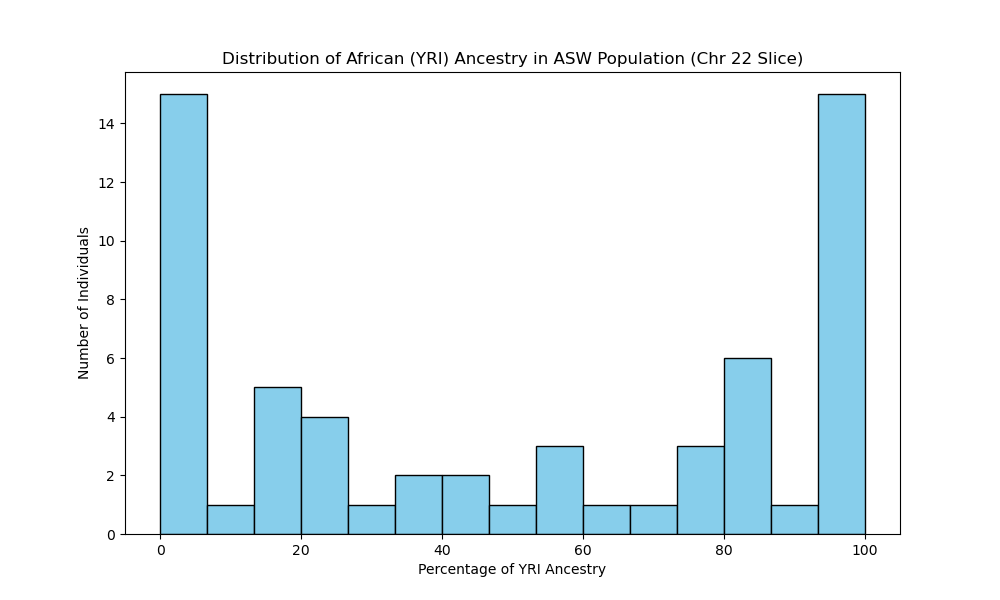
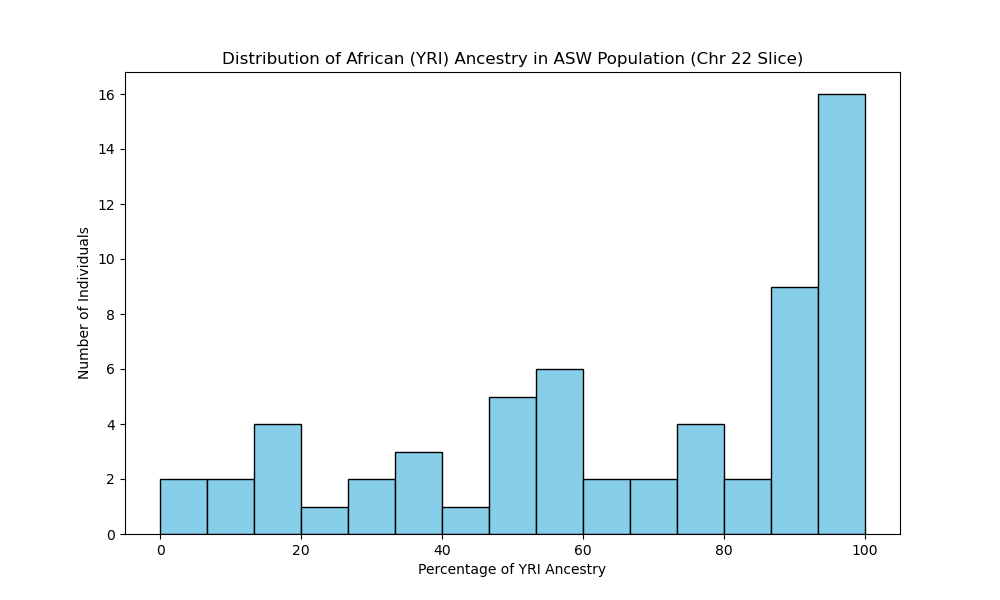
Match hmm with flare and rfmix

diff --git a/src/hmm/emission.py b/src/hmm/emission.py
@@ -17,49 +17,36 @@ class EmissionModel:
         self.yri_freqs = yri_freqs
         self.ceu_freqs = ceu_freqs
         self.epsilon = epsilon
+        # Haplotype-level ancestry states (K states, K=2 for this project).
+        self.states = ["CEU", "YRI"]
 
-    def get_log_emission(self, state, genotype, position):
-        # Get the frequency for the given state (YRI or CEU)
-        freqs = self.yri_freqs if state == "YRI" else self.ceu_freqs
-        
-        # If the SNP position isn't in our frequency dict, return a neutral log-prob
-        if position not in freqs:
-            return np.log(0.5)
-            
-        p = freqs[position]
-        
-        # Basic emission logic: 
-        # Probability of observing genotype (0,0), (0,1), or (1,1) given allele frequency p
-        # We add epsilon to prevent log(0) errors
-        if genotype == (0, 0):
-            prob = (1 - p)**2
-        elif genotype == (0, 1) or genotype == (1, 0):
-            prob = 2 * p * (1 - p)
-        elif genotype == (1, 1):
-            prob = p**2
-        else:
-            prob = 0.5 # Fallback
-            
-        return np.log(max(prob, self.epsilon))
+    def get_haplotype_emission_probs(self, pos, allele):
+        """
+        Calculates P(allele | ancestry_state) for a single phased haplotype.
+        allele: 0 or 1.
+        """
+        f_yri = self.yri_freqs.get(pos, 0.5)
+        f_ceu = self.ceu_freqs.get(pos, 0.5)
+
+        return {
+            "CEU": max(self._allele_prob(allele, f_ceu), self.epsilon),
+            "YRI": max(self._allele_prob(allele, f_yri), self.epsilon),
+        }
 
     def get_emission_probs(self, pos, genotype):
         """
-        Calculates P(Genotype | State) for phased diploid ancestry states.
+        Backward-compatible diploid ancestry likelihoods for homogeneous states.
         genotype: tuple (0, 1), (1, 1), etc.
+
+        Returns:
+            dict with keys {"CEU", "YRI"}.
         """
         f_yri = self.yri_freqs.get(pos, 0.5) # Default to 0.5 if SNP missing
         f_ceu = self.ceu_freqs.get(pos, 0.5)
-        
-        p_ceu_ceu = self._calc_likelihood(genotype, f_ceu, f_ceu)
-        p_yri_yri = self._calc_likelihood(genotype, f_yri, f_yri)
-        p_ceu_yri = self._calc_likelihood(genotype, f_ceu, f_yri)
-        p_yri_ceu = self._calc_likelihood(genotype, f_yri, f_ceu)
 
         return {
-            "CEU_CEU": p_ceu_ceu,
-            "CEU_YRI": p_ceu_yri,
-            "YRI_CEU": p_yri_ceu,
-            "YRI_YRI": p_yri_yri,
+            "CEU": self._calc_likelihood(genotype, f_ceu, f_ceu),
+            "YRI": self._calc_likelihood(genotype, f_yri, f_yri),
         }
 
     def _calc_likelihood(self, genotype, f1, f2):

diff --git a/src/hmm/viterbi.py b/src/hmm/viterbi.py
@@ -12,12 +12,12 @@ class InferenceEngine:
     def __init__(self, emission_model, transition_model):
         self.emissions = emission_model
         self.transitions = transition_model
-        self.states = ["CEU_CEU", "CEU_YRI", "YRI_CEU", "YRI_YRI"]
+        self.states = list(getattr(emission_model, "states", ["CEU", "YRI"]))
 
-    def run_viterbi(self, snp_positions, genotypes, genetic_map_func):
+    def run_viterbi(self, snp_positions, alleles, genetic_map_func):
         """
         snp_positions: list of physical positions
-        genotypes: list of tuples (0,1), (1,1), etc.
+        alleles: list of haplotype alleles (0 or 1)
         genetic_map_func: a lambda or function that takes pos and returns cM
         """
         n_snps = len(snp_positions)
@@ -33,7 +33,7 @@ class InferenceEngine:
 
         # 1. Initialize (First SNP)
         first_pos = snp_positions[0]
-        first_em = self.emissions.get_emission_probs(first_pos, genotypes[0])
+        first_em = self.emissions.get_haplotype_emission_probs(first_pos, alleles[0])
         initial_prior = 1.0 / n_states
         for state_idx, state_name in enumerate(self.states):
             viterbi[state_idx, 0] = np.log(initial_prior * first_em[state_name])
@@ -50,7 +50,7 @@ class InferenceEngine:
             )
             trans_matrix = np.maximum(trans_matrix, 1e-300)
             
-            curr_em = self.emissions.get_emission_probs(curr_pos, genotypes[i])
+            curr_em = self.emissions.get_haplotype_emission_probs(curr_pos, alleles[i])
             
             for s in range(n_states):
                 prev_scores = viterbi[:, i-1] + np.log(trans_matrix[:, s])
@@ -64,3 +64,18 @@ class InferenceEngine:
             best_path.insert(0, backpointer[best_path[0], i])
 
         return [self.states[s] for s in best_path]
+
+    def run_viterbi_phased(self, snp_positions, genotypes, genetic_map_func):
+        """
+        Runs haplotype-level Viterbi on both phased alleles and returns two paths.
+        genotypes: list of tuples (a1, a2)
+        """
+        hap1 = [gt[0] for gt in genotypes]
+        hap2 = [gt[1] for gt in genotypes]
+        hap1_states = self.run_viterbi(snp_positions, hap1, genetic_map_func)
+        hap2_states = self.run_viterbi(snp_positions, hap2, genetic_map_func)
+        return hap1_states, hap2_states
+
+    @staticmethod
+    def combine_haplotype_states(hap1_states, hap2_states):
+        return [f"{h1}_{h2}" for h1, h2 in zip(hap1_states, hap2_states)]

diff --git a/general-analysis/02_population_analysis.py b/general-analysis/02_population_analysis.py
@@ -84,29 +84,26 @@ def main():
             continue
         
         # Run inference
-        states = engine.run_viterbi(snp_positions, genotypes, get_cm)
+        hap1_states, hap2_states = engine.run_viterbi_phased(snp_positions, genotypes, get_cm)
         
         # Calculate stats
-        yri_yri_count = states.count("YRI_YRI")
-        yri_ceu_count = states.count("YRI_CEU")
-        ceu_yri_count = states.count("CEU_YRI")
-        ceu_ceu_count = states.count("CEU_CEU")
-        total = len(states)
+        total = len(hap1_states)
+        hap1_yri_pct = 100.0 * sum(state == "YRI" for state in hap1_states) / total
+        hap2_yri_pct = 100.0 * sum(state == "YRI" for state in hap2_states) / total
+        hap1_ceu_pct = 100.0 - hap1_yri_pct
+        hap2_ceu_pct = 100.0 - hap2_yri_pct
 
-        yri_pct = (yri_yri_count / total) * 100
-        ceu_pct = (ceu_ceu_count / total) * 100
-        yri_ceu_pct = (yri_ceu_count / total) * 100
-        ceu_yri_pct = (ceu_yri_count / total) * 100
-        het_pct = ((yri_ceu_count + ceu_yri_count) / total) * 100
+        # Keep compatibility with previous downstream plotting by using mean YRI across haplotypes.
+        yri_pct = 0.5 * (hap1_yri_pct + hap2_yri_pct)
 
         population_data.append(
             {
                 "sample_id": sample_id,
                 "yri_pct": yri_pct,
-                "ceu_pct": ceu_pct,
-                "yri_ceu_pct": yri_ceu_pct,
-                "ceu_yri_pct": ceu_yri_pct,
-                "het_pct": het_pct,
+                "hap1_yri_pct": hap1_yri_pct,
+                "hap1_ceu_pct": hap1_ceu_pct,
+                "hap2_yri_pct": hap2_yri_pct,
+                "hap2_ceu_pct": hap2_ceu_pct,
             }
         )
         

diff --git a/general-analysis/01_real_sample_analysis.py b/general-analysis/01_real_sample_analysis.py
@@ -87,24 +87,23 @@ def main():
         engine = InferenceEngine(emissions, transitions)
         
         get_cm = lambda x: interpolate_genetic_position(x, phys, gen)
-        states = engine.run_viterbi(snp_positions, genotypes, get_cm)
+        hap1_states, hap2_states = engine.run_viterbi_phased(snp_positions, genotypes, get_cm)
         
         # 5. Global Stats
-        total = len(states)
-        yri_yri_pct = (states.count("YRI_YRI") / total) * 100
-        yri_ceu_pct = (states.count("YRI_CEU") / total) * 100
-        ceu_yri_pct = (states.count("CEU_YRI") / total) * 100
-        ceu_ceu_pct = (states.count("CEU_CEU") / total) * 100
+        total = len(hap1_states)
+        hap1_yri_pct = (hap1_states.count("YRI") / total) * 100
+        hap2_yri_pct = (hap2_states.count("YRI") / total) * 100
+        hap1_ceu_pct = 100.0 - hap1_yri_pct
+        hap2_ceu_pct = 100.0 - hap2_yri_pct
         print(
             "    Summary: "
-            f"{yri_yri_pct:.1f}% YRI_YRI | "
-            f"{yri_ceu_pct:.1f}% YRI_CEU | "
-            f"{ceu_yri_pct:.1f}% CEU_YRI | "
-            f"{ceu_ceu_pct:.1f}% CEU_CEU"
+            f"Hap1 YRI={hap1_yri_pct:.1f}% CEU={hap1_ceu_pct:.1f}% | "
+            f"Hap2 YRI={hap2_yri_pct:.1f}% CEU={hap2_ceu_pct:.1f}%"
         )
 
         # 6. Visualize - ensure unique filename per sample!
-        plot_ancestry(snp_positions, states, save_path=OUTPUT_DIR / f"ancestry_{sample_id}.png")
+        plot_ancestry(snp_positions, hap1_states, save_path=OUTPUT_DIR / f"ancestry_{sample_id}_hap1.png")
+        plot_ancestry(snp_positions, hap2_states, save_path=OUTPUT_DIR / f"ancestry_{sample_id}_hap2.png")
 
 if __name__ == "__main__":
     main()

diff --git a/src/hmm/transition.py b/src/hmm/transition.py
@@ -10,10 +10,12 @@ import numpy as np
 class TransitionModel:
     def __init__(self, generations=10):
         self.G = generations # Generations since admixture
+        # Haplotype-level ancestry states (K states, K=2 for this project).
+        self.states = ["CEU", "YRI"]
 
     def get_transition_matrix(self, cm_start, cm_end):
         """
-        Calculates transition probabilities among phased diploid ancestry states.
+        Calculates transition probabilities among haplotype ancestry states.
         cm_start: genetic position of SNP i
         cm_end: genetic position of SNP i+1
         """
@@ -26,24 +28,13 @@ class TransitionModel:
         
         p_stay = 1 - p_switch
 
-        # State order: CEU_CEU, CEU_YRI, YRI_CEU, YRI_YRI
-        haplotypes = ["CEU", "YRI"]
-        states = [
-            ("CEU", "CEU"),
-            ("CEU", "YRI"),
-            ("YRI", "CEU"),
-            ("YRI", "YRI"),
-        ]
-
-        hap_transition = {
-            (src, dst): (p_stay if src == dst else p_switch)
-            for src in haplotypes
-            for dst in haplotypes
-        }
-
-        matrix = np.zeros((len(states), len(states)), dtype=float)
-        for i, (h1_src, h2_src) in enumerate(states):
-            for j, (h1_dst, h2_dst) in enumerate(states):
-                matrix[i, j] = hap_transition[(h1_src, h1_dst)] * hap_transition[(h2_src, h2_dst)]
+        # State order: CEU, YRI
+        matrix = np.array(
+            [
+                [p_stay, p_switch],
+                [p_switch, p_stay],
+            ],
+            dtype=float,
+        )
 
         return matrix

diff --git a/benchmark/scripts/export_model_predictions.py b/benchmark/scripts/export_model_predictions.py
@@ -141,17 +141,22 @@ def main() -> None:
             continue
 
         get_cm = lambda position: interpolate_genetic_position(position, phys, gen)
-        states = engine.run_viterbi(snp_positions, genotypes, get_cm)
+        hap1_states, hap2_states = engine.run_viterbi_phased(snp_positions, genotypes, get_cm)
+        states = engine.combine_haplotype_states(hap1_states, hap2_states)
         labels = [STATE_TO_LABEL.get(state, "HET") for state in states]
 
         rows.extend(
             {
                 "sample_id": sample_id,
                 "position": pos,
+                "hap1_state": hap1_state,
+                "hap2_state": hap2_state,
                 "state": state,
                 "label": label,
             }
-            for pos, state, label in zip(snp_positions, states, labels)
+            for pos, hap1_state, hap2_state, state, label in zip(
+                snp_positions, hap1_states, hap2_states, states, labels
+            )
         )
 
         yri_pct = 100.0 * sum(label == "YRI" for label in labels) / len(labels)

diff --git a/src/visualization/karyogram.py b/src/visualization/karyogram.py
@@ -5,7 +5,12 @@ def plot_ancestry(positions, states, true_switch_idx=None, save_path="ancestry_p
     Creates a karyogram-style plot of the HMM results.
     """
     # Support both legacy 3-state labels and phased 4-state labels.
-    if any(s in {"CEU_YRI", "YRI_CEU"} for s in states):
+    if set(states).issubset({"CEU", "YRI"}):
+        val_map = {"YRI": 0, "CEU": 1}
+        ytick_positions = [0, 1]
+        ytick_labels = ["YRI", "CEU"]
+        y_min, y_max = -0.2, 1.2
+    elif any(s in {"CEU_YRI", "YRI_CEU"} for s in states):
         val_map = {"YRI_YRI": 0, "YRI_CEU": 1, "CEU_YRI": 2, "CEU_CEU": 3}
         ytick_positions = [0, 1, 2, 3]
         ytick_labels = ["YRI/YRI", "YRI|CEU", "CEU|YRI", "CEU/CEU"]
